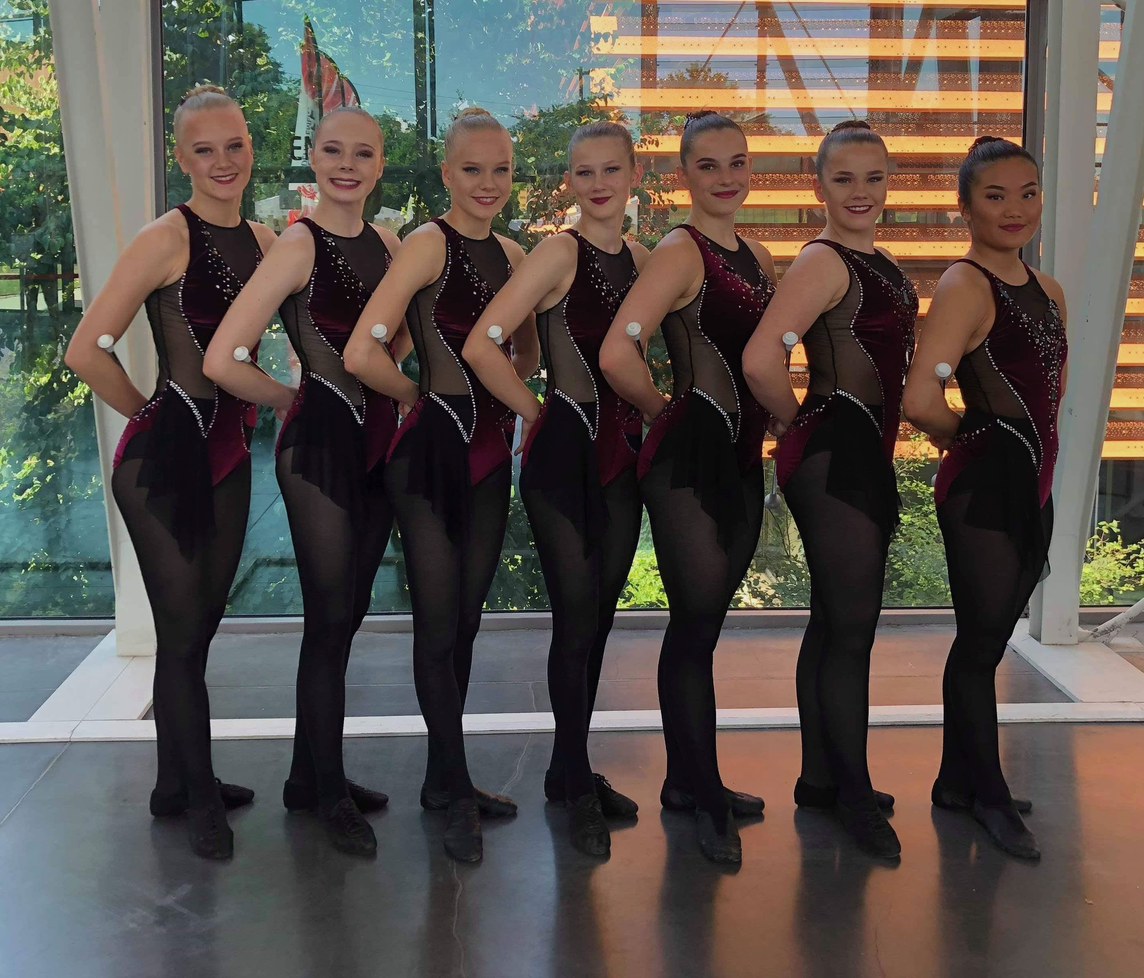
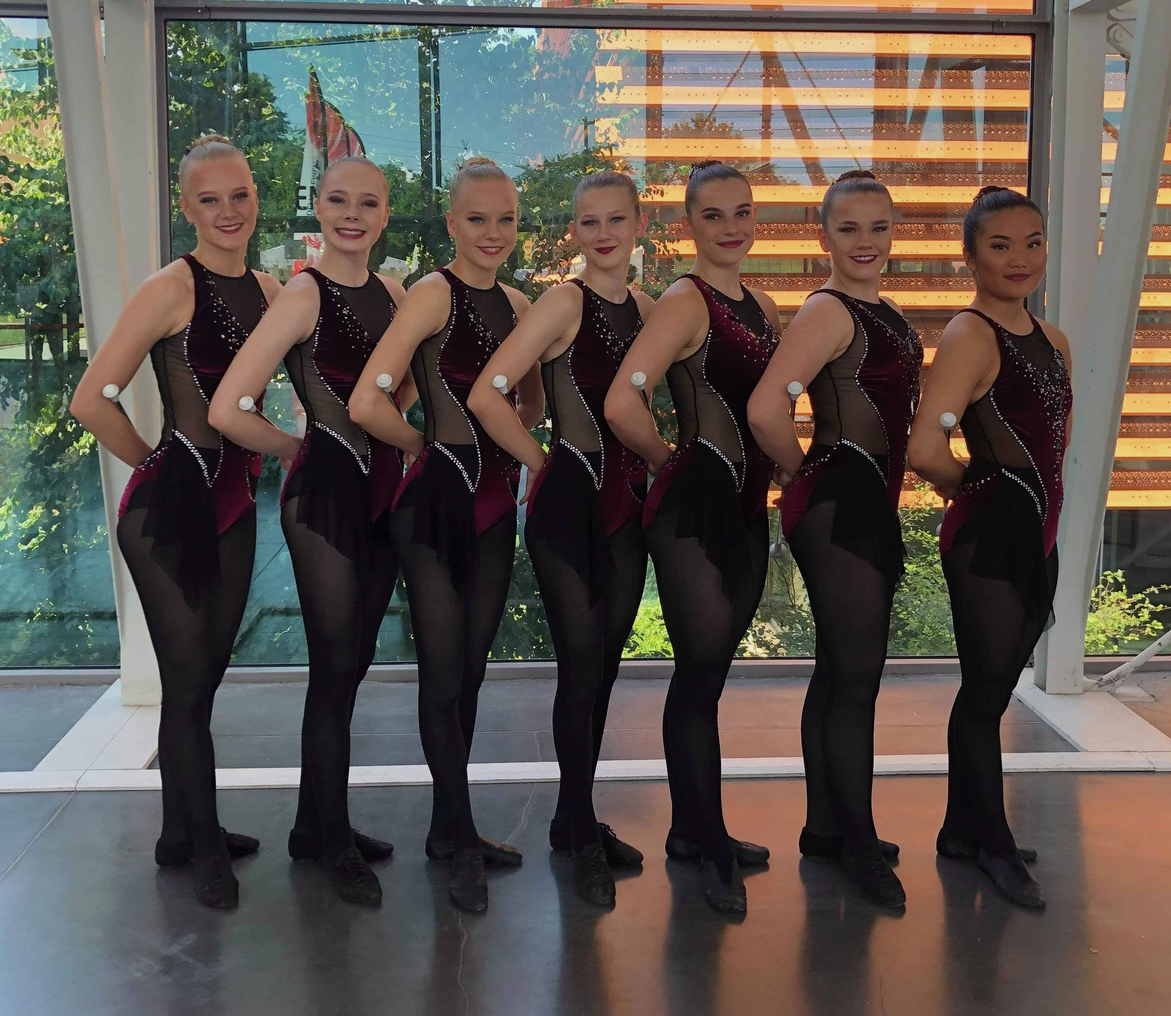
La til drakter fra vm24

diff --git a/kode.js b/kode.js
@@ -37,42 +37,55 @@ const drakter = [
   },
   {
     id: "K-003",
-    navn: "Labfrakk",
+    navn: "Sofie freestyle 24",
     storrelse: "S",
-    farger: ["hvit"],
-    image: "https://images.unsplash.com/photo-1582719478250-c89cae4dc85b?q=80&w=1200&auto=format&fit=crop",
-    status: "tilgjengelig",
+    farger: ["svart", "rosa"],
+    image: "Bilder/sofie24.jpg",
+    status: "ibruk",
     eier: ["Sofie"],
-    beskrivelse: "Standard labfrakk.",
+    beskrivelse: "Svart og rosa todelt freestyledrakt.",
     type: "Individuell",
-    tilbud: "kjøp",
-    pris: 600
+    tilbud: "leie / selge",
+    pris: 650
   },
   {
     id: "K-004",
-    navn: "Uniform – Kaptein",
-    storrelse: "XL",
-    farger: ["marine", "gull"],
-    image: "https://images.unsplash.com/photo-1530884698388-509e3973021e?q=80&w=1200&auto=format&fit=crop",
-    status: "ibruk",
-    eier: ["Anna"],
-    beskrivelse: "Formell jakke og bukse med detaljer.",
-    type: "Tropp (6)",
-    tilbud: "leie",
-    pris: 900
+    navn: "Marie freestyle 24",
+    storrelse: "S",
+    farger: ["rød", "svart", "gull"],
+    image: "Biler/marie24.jpg",
+    status: "tilgjengelig",
+    eier: ["Marie"],
+    beskrivelse: "Rød freestyledrakt med detaljer i svart og gull.",
+    type: "Individuell",
+    tilbud: "Selge",
+    pris: 1500
   },
   {
     id: "K-005",
-    navn: "Charleston-kjole",
-    storrelse: "M",
-    farger: ["svart", "sølv"],
-    image: "https://images.unsplash.com/photo-1528712306091-ed0763094c98?q=80&w=1200&auto=format&fit=crop",
+    navn: "Alida freestyle 24",
+    storrelse: "S",
+    farger: ["svart", "sølv", "grå"],
+    image: "Bilder/alida24.jpg",
     status: "tilgjengelig",
-    eier: ["Annabell"],
-    beskrivelse: "1920-talls stil, frynser og glitter.",
+    eier: ["Alida"],
+    beskrivelse: "Grå og svart freestyledrakt.",
     type: "Individuell",
-    tilbud: "leie",
-    pris: 300
+    tilbud: "leie / selge",
+    pris: 650
+  },
+  {
+    id: "K-006",
+    navn: "Senior par 24",
+    storrelse: "S",
+    farger: ["vinrød", "gull"],
+    image: "Bilder/srpar24.jpg",
+    status: "tilgjengelig",
+    eier: ["Margrete, Sofie"],
+    beskrivelse: "Vinrød pardrakter med detaljer i gull.",
+    type: "Par",
+    tilbud: "leie / selge",
+    pris: 650
   }
 ];
 
